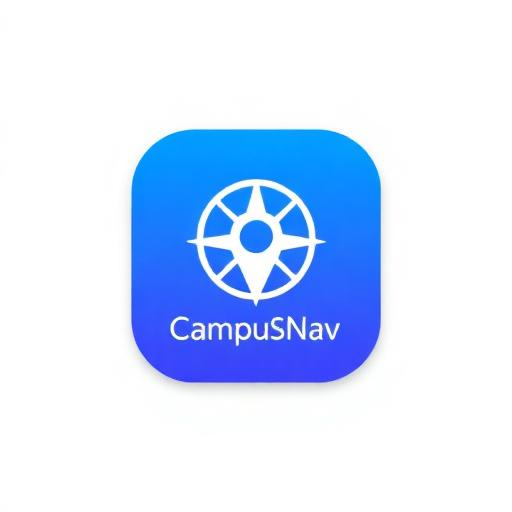
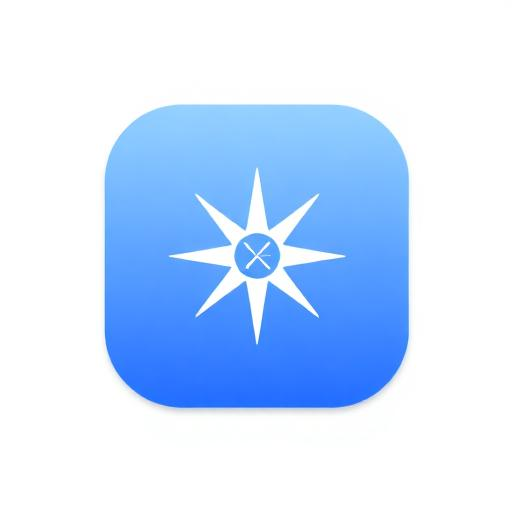
Changes

diff --git a/vite.config.ts b/vite.config.ts
@@ -2,6 +2,7 @@ import { defineConfig } from "vite";
 import react from "@vitejs/plugin-react-swc";
 import path from "path";
 import { componentTagger } from "lovable-tagger";
+import { VitePWA } from "vite-plugin-pwa";
 
 // https://vitejs.dev/config/
 export default defineConfig(({ mode }) => ({
@@ -12,11 +13,84 @@ export default defineConfig(({ mode }) => ({
       overlay: false,
     },
   },
-  plugins: [react(), mode === "development" && componentTagger()].filter(Boolean),
+  plugins: [
+    react(),
+    mode === "development" && componentTagger(),
+    VitePWA({
+      registerType: "autoUpdate",
+      devOptions: {
+        enabled: false,
+      },
+      includeAssets: ["favicon.ico", "robots.txt", "pwa-192.png", "pwa-512.png"],
+      manifest: {
+        name: "CampusNav - Smart Campus Navigation",
+        short_name: "CampusNav",
+        description:
+          "Find any room on campus instantly with step-by-step directions.",
+        theme_color: "#3B82F6",
+        background_color: "#0F172A",
+        display: "standalone",
+        orientation: "portrait",
+        start_url: "/",
+        scope: "/",
+        icons: [
+          {
+            src: "/pwa-192.png",
+            sizes: "192x192",
+            type: "image/png",
+            purpose: "any maskable",
+          },
+          {
+            src: "/pwa-512.png",
+            sizes: "512x512",
+            type: "image/png",
+            purpose: "any maskable",
+          },
+        ],
+      },
+      workbox: {
+        navigateFallbackDenylist: [/^\/~oauth/, /^\/admin/],
+        globPatterns: ["**/*.{js,css,html,ico,png,svg,woff2}"],
+        runtimeCaching: [
+          {
+            urlPattern: /^https:\/\/.*\.supabase\.co\/rest\/v1\/rooms.*/i,
+            handler: "StaleWhileRevalidate",
+            options: {
+              cacheName: "rooms-cache",
+              expiration: {
+                maxEntries: 100,
+                maxAgeSeconds: 60 * 60 * 24 * 7, // 7 days
+              },
+              cacheableResponse: { statuses: [0, 200] },
+            },
+          },
+          {
+            urlPattern: /^https:\/\/.*\.supabase\.co\/storage\/v1\/object\/public\/.*/i,
+            handler: "CacheFirst",
+            options: {
+              cacheName: "supabase-storage-cache",
+              expiration: {
+                maxEntries: 200,
+                maxAgeSeconds: 60 * 60 * 24 * 30,
+              },
+              cacheableResponse: { statuses: [0, 200] },
+            },
+          },
+        ],
+      },
+    }),
+  ].filter(Boolean),
   resolve: {
     alias: {
       "@": path.resolve(__dirname, "./src"),
     },
-    dedupe: ["react", "react-dom", "react/jsx-runtime", "react/jsx-dev-runtime", "@tanstack/react-query", "@tanstack/query-core"],
+    dedupe: [
+      "react",
+      "react-dom",
+      "react/jsx-runtime",
+      "react/jsx-dev-runtime",
+      "@tanstack/react-query",
+      "@tanstack/query-core",
+    ],
   },
 }));

diff --git a/src/components/InstallPrompt.tsx b/src/components/InstallPrompt.tsx
@@ -1,0 +1,64 @@
+import { useEffect, useState } from "react";
+import { Button } from "@/components/ui/button";
+import { Download, X } from "lucide-react";
+
+interface BeforeInstallPromptEvent extends Event {
+  prompt: () => Promise<void>;
+  userChoice: Promise<{ outcome: "accepted" | "dismissed" }>;
+}
+
+export default function InstallPrompt() {
+  const [deferred, setDeferred] = useState<BeforeInstallPromptEvent | null>(null);
+  const [dismissed, setDismissed] = useState(
+    typeof localStorage !== "undefined" &&
+      localStorage.getItem("pwa-install-dismissed") === "1"
+  );
+
+  useEffect(() => {
+    const handler = (e: Event) => {
+      e.preventDefault();
+      setDeferred(e as BeforeInstallPromptEvent);
+    };
+    window.addEventListener("beforeinstallprompt", handler);
+    return () => window.removeEventListener("beforeinstallprompt", handler);
+  }, []);
+
+  if (!deferred || dismissed) return null;
+
+  const install = async () => {
+    await deferred.prompt();
+    await deferred.userChoice;
+    setDeferred(null);
+  };
+
+  const dismiss = () => {
+    localStorage.setItem("pwa-install-dismissed", "1");
+    setDismissed(true);
+  };
+
+  return (
+    <div className="fixed bottom-4 left-4 right-4 z-50 mx-auto max-w-md rounded-2xl border border-border bg-card/95 p-4 shadow-lg backdrop-blur-md md:left-auto md:right-4">
+      <div className="flex items-center gap-3">
+        <div className="flex h-10 w-10 shrink-0 items-center justify-center rounded-xl bg-primary/10">
+          <Download className="h-5 w-5 text-primary" />
+        </div>
+        <div className="flex-1">
+          <p className="text-sm font-medium text-foreground">Install CampusNav</p>
+          <p className="text-xs text-muted-foreground">
+            Offline access & quick launch from home screen
+          </p>
+        </div>
+        <Button size="sm" onClick={install}>
+          Install
+        </Button>
+        <button
+          onClick={dismiss}
+          className="rounded-md p-1 text-muted-foreground hover:bg-muted"
+          aria-label="Dismiss"
+        >
+          <X className="h-4 w-4" />
+        </button>
+      </div>
+    </div>
+  );
+}

diff --git a/src/components/OfflineIndicator.tsx b/src/components/OfflineIndicator.tsx
@@ -1,0 +1,13 @@
+import { WifiOff } from "lucide-react";
+import { useOnlineStatus } from "@/hooks/useOnlineStatus";
+
+export default function OfflineIndicator() {
+  const online = useOnlineStatus();
+  if (online) return null;
+  return (
+    <div className="fixed top-2 left-1/2 z-50 -translate-x-1/2 rounded-full border border-border bg-card/95 px-3 py-1.5 text-xs font-medium text-foreground shadow-md backdrop-blur-md flex items-center gap-1.5">
+      <WifiOff className="h-3.5 w-3.5 text-amber-500" />
+      Offline — showing cached data
+    </div>
+  );
+}

diff --git a/src/hooks/useOnlineStatus.tsx b/src/hooks/useOnlineStatus.tsx
@@ -1,0 +1,20 @@
+import { useEffect, useState } from "react";
+
+export function useOnlineStatus() {
+  const [online, setOnline] = useState(
+    typeof navigator !== "undefined" ? navigator.onLine : true
+  );
+
+  useEffect(() => {
+    const on = () => setOnline(true);
+    const off = () => setOnline(false);
+    window.addEventListener("online", on);
+    window.addEventListener("offline", off);
+    return () => {
+      window.removeEventListener("online", on);
+      window.removeEventListener("offline", off);
+    };
+  }, []);
+
+  return online;
+}
